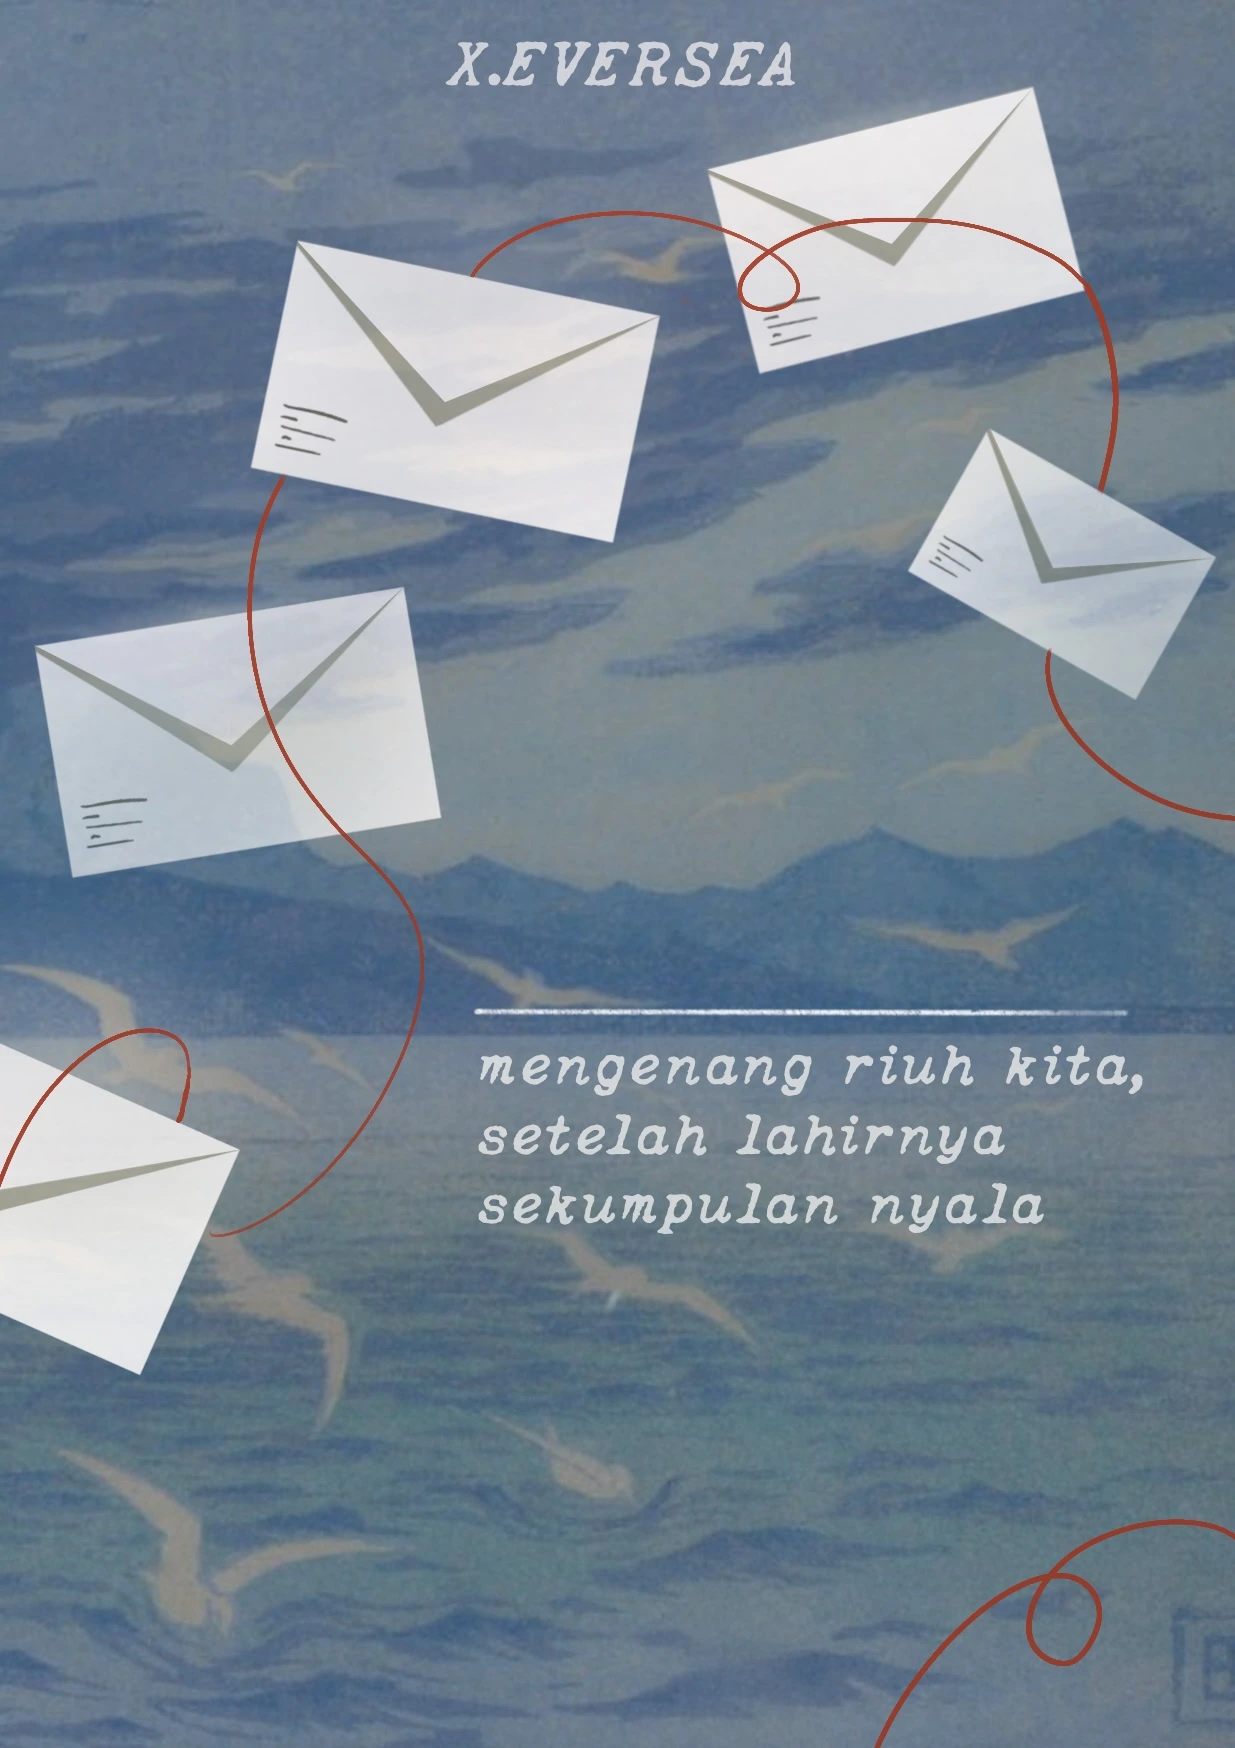
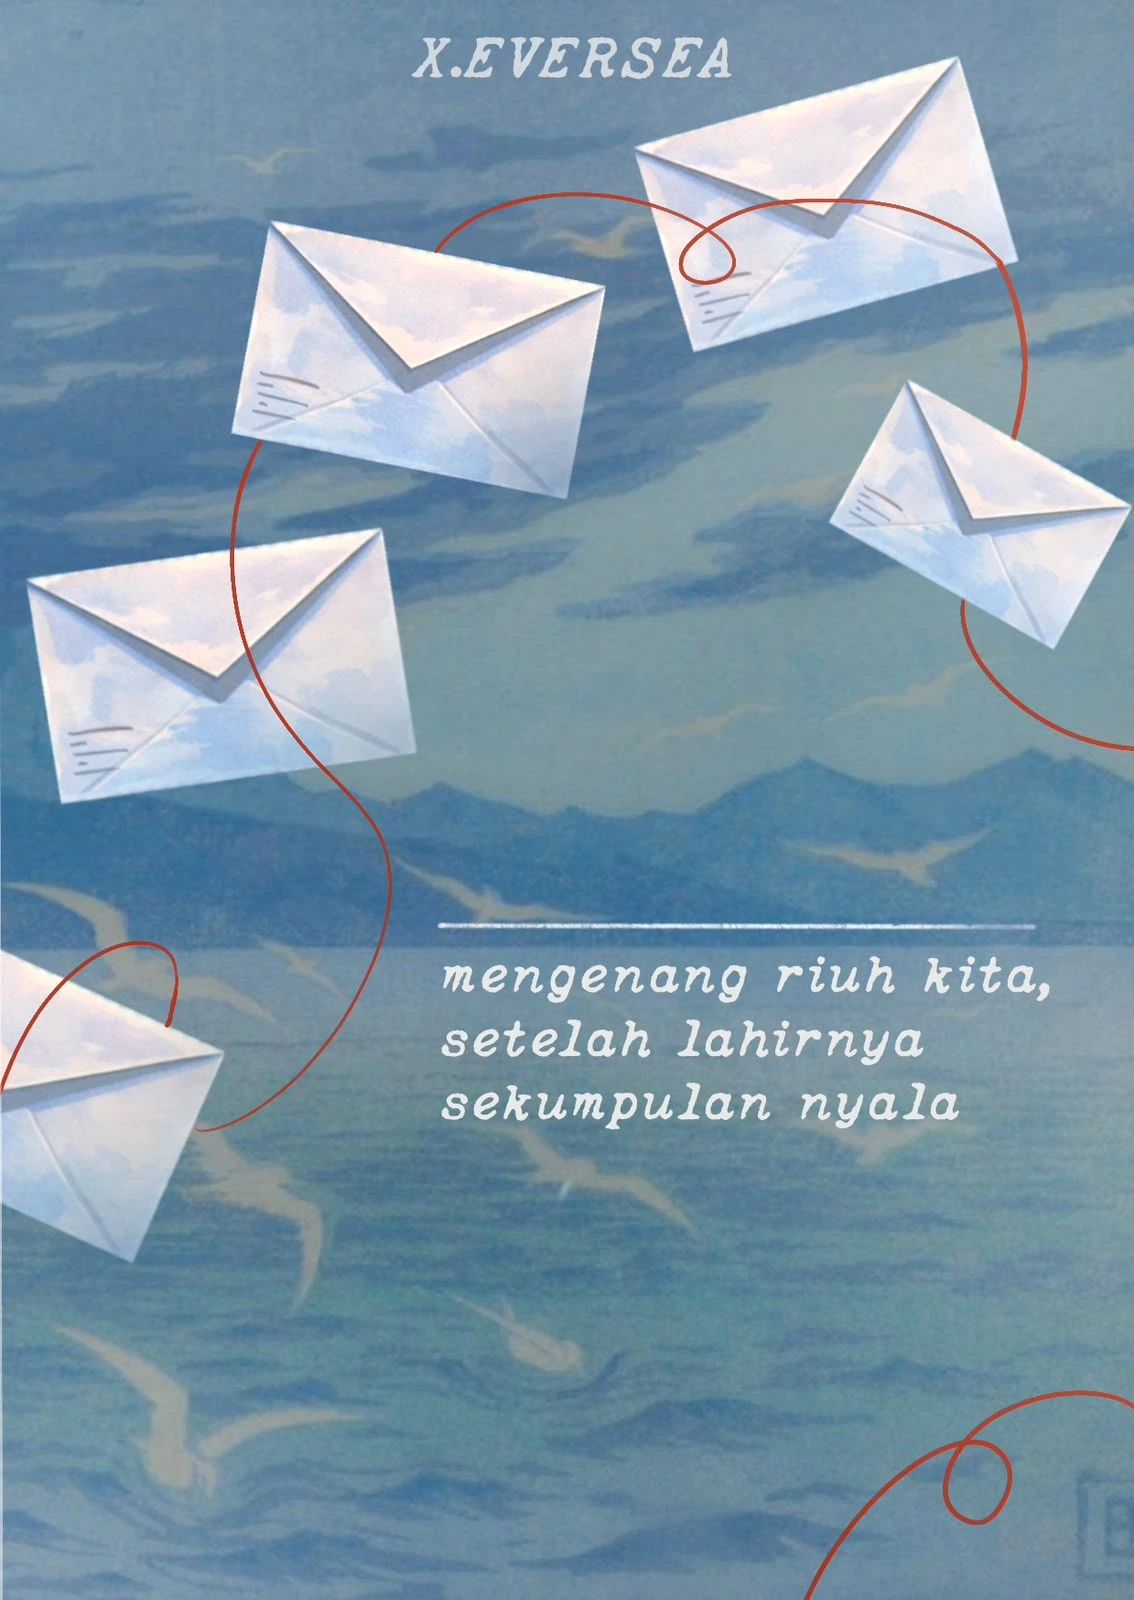
Resort cover

diff --git a/puisi/index.css b/puisi/index.css
@@ -55,7 +55,7 @@
     left: 0;
     width: 100%;
     height: 100%;
-    background: linear-gradient(#46B83D, #111E0B);
+    background: linear-gradient(#1D796F, #111e0b);
     overflow: hidden;
     align-items: center;
     justify-content: center;